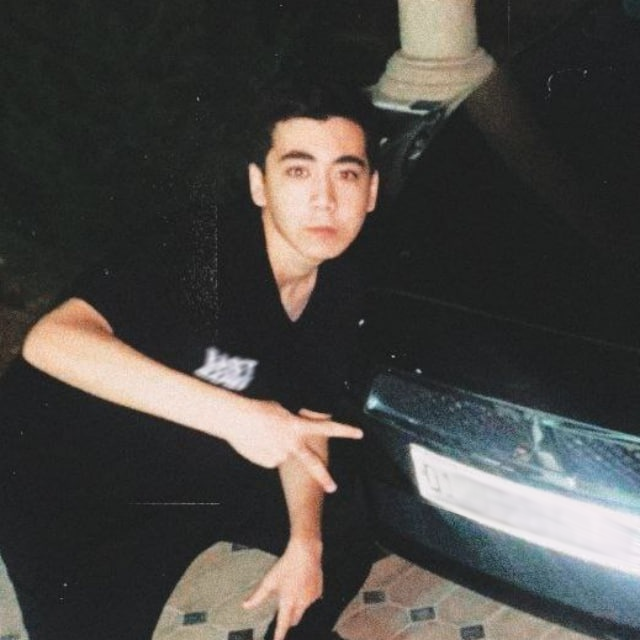
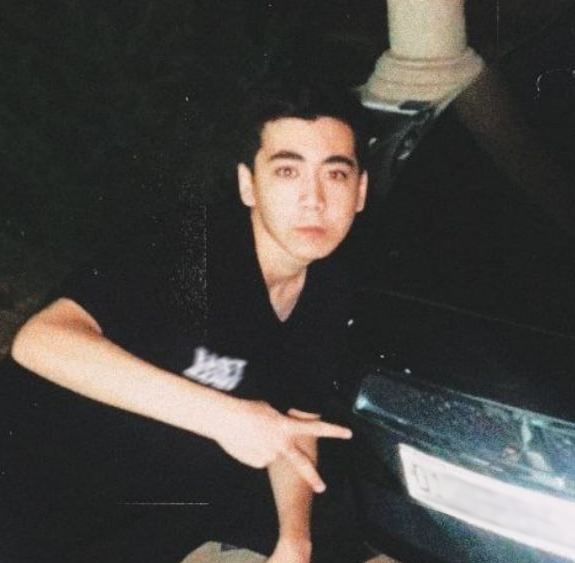
About page

diff --git a/index.html b/index.html
@@ -7,6 +7,7 @@
             <div class="navigation-bar">
                 <div class="floating-bar-button"id="home"><i data-lucide="home"></i></div>
                 <div class="floating-bar-button"id="about"><i data-lucide="user"></i></div>
+                <div class="floating-bar-button"id="projects"><i data-lucide="joystick"></i></div>
             </div>
             <!--<div class="floating-bar-button"id="mode-toggle"><i data-lucide="moon"></i></div>-->
         </div>
@@ -15,7 +16,7 @@
             <div class="main">
                 <h2 class="header">Umar Abdullayev is a game developer</h2>
                 <p class="content">Welcome to my corner of the web where I write just about anything that interests me.</p>
-                <p class="content">I am currently working on a game project and diving deeper into web development. <a href="#about" class="page_link">Read more »</a></p>
+                <p class="content">I am currently working on a game project and diving deeper into web development. <span class="page-link" id="read-more">Read more »</a></p>
                 
                 <div class="achievement-ticker" id="achievementTicker"></div>
             </div>
@@ -34,16 +35,27 @@
                 </div>
                 <div class="image">
                     <img src="tokyo.png">
-                    <p>At home</p>
+                    <p>September, 2024</p>
                 </div>
-                <p class="content">*Long ass description goes here*</p>
+                <p class="content">I'm an <span id="age"></span> years old, and I live in Tashkent. I've been passionate about game development since middle school,
+                    and over the years, I've gained solid experience working on various projects. While game development remains close to my heart, I no longer want to limit myself to just the gaming industry</p>
+                <p class="content">I've always been interested in web development, and this website is my first fully completed one. Recently,
+                    I also began exploring street photography — you can find some of my shots on Instagram at <a href="https://www.instagram.com/abdullayev.shots" class="link">@abdullayev.shots</a>
+                </p>
+                <p class="content">My personal telegram channel where I post updates: <a href="https://t.me/liwait_life" class="link">@liwait_life</a></p>
+                <p class="content">Reach me via email: <a href="mailto:umarabdullaev151@gmail.com" class="link">umarabdullaev151@gmail.com</a></p>
             </div>
+        </div>
+
+        <div class="page projects" id="page-projects">
+            <p>Working on it</p>
         </div>
         
         <link rel="stylesheet" href="css/styles.css">
         <script src="js/achievements.js"></script>
         <script src="js/posts.js"></script>
         <script src="js/floating-bar.js"></script>
+        <script src="js/about-page.js"></script>
         <script src="https://unpkg.com/lucide@latest"></script>
     </body>
 </html>

diff --git a/css/styles.css b/css/styles.css
@@ -91,25 +91,43 @@ body {
   display: block;
 }
 
+.about .top {
+    margin-top: 0rem;
+    line-height: 1rem;
+}
+
 @media (max-width: 800px) {
     body {
         margin: auto;
-        padding: 8rem 2rem;
+        padding: 2rem 2rem;
     }
     .floating-bar {
+        position: relative;
         flex-direction: row;
 
-        top: 2.5rem;
-        left: 2rem;
+        top: 0rem;
+        left: 1em;
     }
     .navigation-bar {
         flex-direction: row;
+    }
+
+    .about .top {
+        margin-top: 2rem;
+        line-height: 1rem;
     }
 }
 
 @media (max-width: 600px) {
     .main {
         padding: 0 0rem;
+    }
+    .floating-bar {
+        position: relative;
+        flex-direction: row;
+
+        top: 0rem;
+        left: 0rem;
     }
     div.post-box {
         margin: 4rem 0rem;
@@ -128,15 +146,17 @@ body {
     color: #7e8cac;
 }
 
-a.page_link {
+.page-link {
     color: #373F51;
     text-decoration: none;
     transition: color .25s;
+    user-select: none;
 }
 
-a.page_link:hover {
+.page-link:hover {
     color: #A9BCD0;
     text-decoration: none;
+    cursor: pointer;
 }
 
 .achievement-ticker {
@@ -174,18 +194,14 @@ a.page_link:hover {
     }
 }
 
-.about .top {
-    line-height: 1rem;
-}
-
 .image {
     line-height: 1rem;
-    margin: 3rem 0rem 3rem 0rem;
+    margin: 2rem 0rem 2rem 0rem;
 }
 
 .image img {
     border-radius: 1rem;
-    max-width: 100%;
+    max-width: 75%;
     height: auto;
     display: block;
 }
@@ -193,4 +209,18 @@ a.page_link:hover {
 .image p {
     font-size: small;
     color: #555963;
+    font-style: italic;
+}
+
+a.link {
+    text-decoration: underline;
+    color: #A9BCD0;
+    text-decoration-color: #555963;
+    text-decoration-thickness: 2px;
+    transition: color .25s;
+}
+
+a.link:hover {
+    color: #D8DBE2;
+    text-decoration-color: #555963;
 }

diff --git a/js/floating-bar.js b/js/floating-bar.js
@@ -3,12 +3,14 @@ document.addEventListener('DOMContentLoaded', () => {
 
   const buttons = {
     home: document.getElementById('home'),
-    about: document.getElementById('about')
+    about: document.getElementById('about'),
+    projects: document.getElementById('projects')
   };
 
   const pages = {
     home: document.getElementById('page-home'),
-    about: document.getElementById('page-about')
+    about: document.getElementById('page-about'),
+    projects: document.getElementById('page-projects')
   };
 
   function switchPage(pageKey) {
@@ -26,6 +28,8 @@ document.addEventListener('DOMContentLoaded', () => {
   // Attach click handlers
   buttons.home.addEventListener('click', () => switchPage('home'));
   buttons.about.addEventListener('click', () => switchPage('about'));
+  buttons.projects.addEventListener('click', () => switchPage('projects'));
+  document.getElementById('read-more').addEventListener('click', () => switchPage('about'))
 
   // Default to home
   switchPage('about');

diff --git a/js/about-page.js b/js/about-page.js
@@ -1,0 +1,12 @@
+const birthDate = new Date('2007-06-10'); // replace with your actual birthdate
+
+  function updateAge() {
+    const now = new Date();
+    const diffInMilliseconds = now - birthDate;
+    const millisecondsInYear = 1000 * 60 * 60 * 24 * 365.2425; // average year length
+    const ageInYears = diffInMilliseconds / millisecondsInYear;
+    document.getElementById('age').textContent = ageInYears.toFixed(9); // up to 9 decimals
+  }
+
+  updateAge(); // initial call
+  setInterval(updateAge, 250); // update every second
